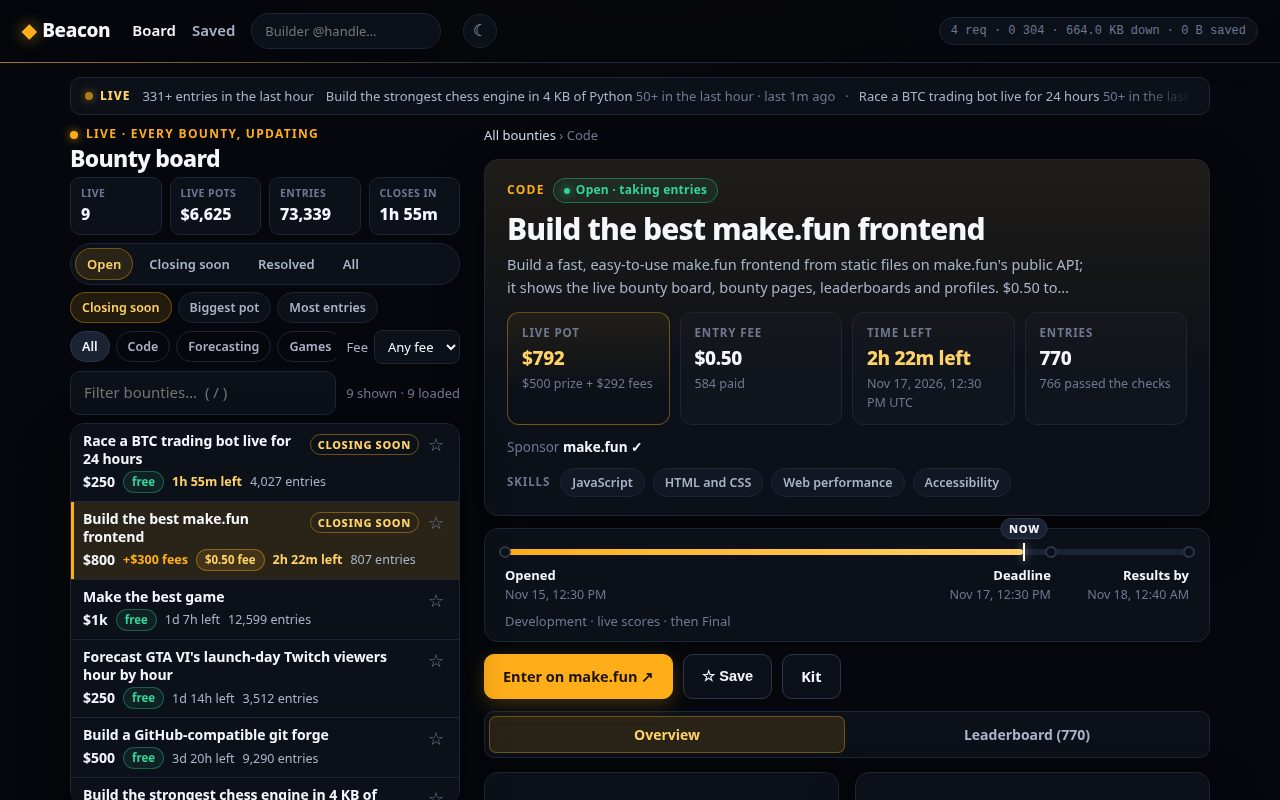
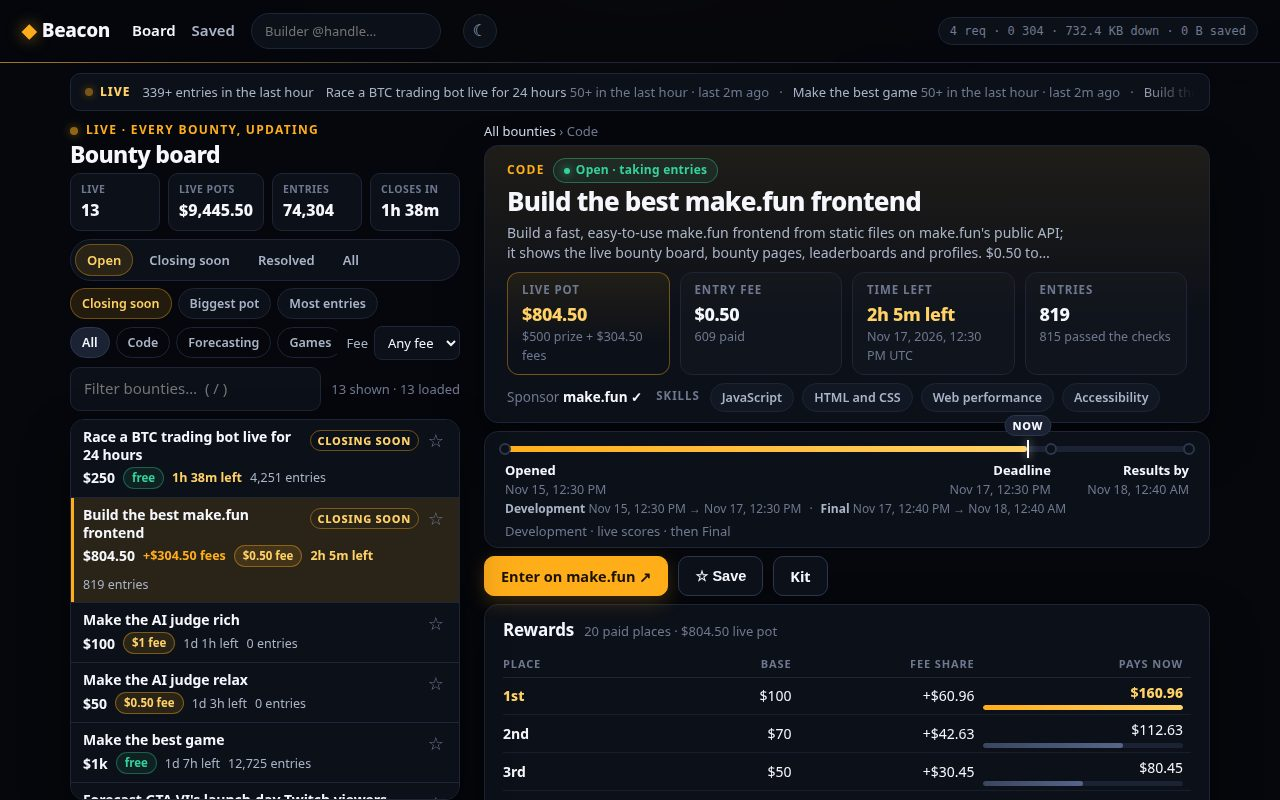
Beacon round 5: rewards table into first screen, exact phase windows, narrow chip wrap
- Rewards table moved above the pane tabs + detail-pane compaction, so the
  table header and rows 1-3 are visible in a 1280x800 viewport; nothing
  removed, timeline stays above the tabs and fully visible
- One quiet line under the timeline bar with the exact Development and Final
  windows from the same API phase data, in the timeline's date format
- At <=720px the category chips wrap on their own row and the Fee filter
  drops to a row below, so no chip is ever cut mid-word; desktop unchanged

diff --git a/app/views.js b/app/views.js
@@ -706,8 +706,8 @@ export function rewardsTableHTML(b) {
   const placeLabel = (g) => (g.start === g.end ? ord(g.start) : `${ord(g.start)}–${ord(g.end)}`);
   return `
     <section class="panel" aria-label="Rewards">
-      <h2>Rewards</h2>
-      <p class="panel-note">${num(rows.length)} paid places · ${money(pot(b))} live pot</p>
+      <div class="panel-head"><h2>Rewards</h2>
+      <p class="panel-note">${num(rows.length)} paid places · ${money(pot(b))} live pot</p></div>
       <table class="rewards">
         <thead><tr><th>Place</th><th class="num">Base</th><th class="num">Fee share</th><th class="num">Pays now</th></tr></thead>
         <tbody>${groups.map((g, i) => `
@@ -742,6 +742,15 @@ export function phasesHTML(b) {
   const pos = (iso) => Math.min(100, Math.max(0, ((new Date(iso).getTime() - start) / span) * 100));
   const nowPos = pos(new Date().toISOString());
   const caption = dev ? `${esc(dev.title)}${dev.scores ? ` · ${esc(dev.scores)} scores` : ''}` : '';
+  // The exact windows, in the same short format as the labels above: the
+  // Development window (opened -> deadline) and the Final window (its own
+  // start -> results-by; the deadline when the phase carries no start).
+  const windows = [];
+  if (dev?.startsAt && dev?.endsAt) windows.push({ title: dev.title || 'Development', from: dev.startsAt, to: dev.endsAt });
+  else windows.push({ title: 'Development', from: opened, to: deadline });
+  if (final?.startsAt && final?.endsAt) windows.push({ title: final.title || 'Final', from: final.startsAt, to: final.endsAt });
+  else if (final?.endsAt) windows.push({ title: final.title || 'Final', from: deadline, to: final.endsAt });
+  const windowsLine = windows.length ? `<p class="ph-windows">${windows.map((w) => `<span><b>${esc(w.title)}</b> ${esc(dateShort(w.from))} → ${esc(dateShort(w.to))}</span>`).join('<span class="ph-wsep" aria-hidden="true">·</span>')}</p>` : '';
   // Label alignment: the first label starts at its dot, the last ends at its
   // dot, and a middle label centers on its dot — unless the next point is so
   // close that the centered label would collide with the next one, in which
@@ -761,6 +770,7 @@ export function phasesHTML(b) {
       <div class="ph-labels">
         ${points.map((p, i) => `<span class="ph-label ${align[i]}" style="left:${pos(p.at).toFixed(1)}%"><b>${esc(p.label)}</b>${dateShort(p.at)}</span>`).join('')}
       </div>
+      ${windowsLine}
       ${caption ? `<p class="ph-caption">${caption}${final ? ` · then ${esc(final.title)}` : ''}</p>` : ''}
     </section>`;
 }
@@ -818,8 +828,7 @@ export function bountyDetailHTML(b) {
         <div class="sc${closing ? ' soon' : ''}"><span class="sc-label">Time left</span><span class="sc-value" data-countdown="${esc(b.deadline)}">${timeLeft(b.deadline)}</span><span class="sc-note">${date(b.deadline)}</span></div>
         <div class="sc"><span class="sc-label">Entries</span><span class="sc-value">${num(b.submissionCount)}</span><span class="sc-note">${entriesNote}</span></div>
       </div>
-      ${b.sponsor?.name ? `<p class="sponsor-line">Sponsor <strong>${esc(b.sponsor.name)}${b.sponsor.isVerified ? ' ✓' : ''}</strong>${b.phase?.title ? ` · ${esc(b.phase.title)}` : ''}</p>` : ''}
-      ${b.skills?.length ? `<div class="skills-row"><span class="sc-label">Skills</span>${b.skills.map((s) => `<span class="chip">${esc(s)}</span>`).join(' ')}</div>` : ''}
+      ${b.sponsor?.name || b.skills?.length ? `<div class="hero-meta">${b.sponsor?.name ? `<p class="sponsor-line">Sponsor <strong>${esc(b.sponsor.name)}${b.sponsor.isVerified ? ' ✓' : ''}</strong>${b.phase?.title ? ` · ${esc(b.phase.title)}` : ''}</p>` : ''}${b.skills?.length ? `<div class="skills-row"><span class="sc-label">Skills</span>${b.skills.map((s) => `<span class="chip">${esc(s)}</span>`).join(' ')}</div>` : ''}</div>` : ''}
     </div>
     ${phasesHTML(b)}
     <div class="actions">
@@ -827,13 +836,13 @@ export function bountyDetailHTML(b) {
       ${starButtonHTML(b.slug, true)}
       ${kit ? `<a class="btn ghost" href="${esc(kit)}" target="_blank" rel="noopener">Kit</a>` : ''}
     </div>
+    ${rewardsTableHTML(b)}
     <div class="detail-tabs" role="tablist" aria-label="Bounty detail">
       <button role="tab" data-ptab="overview" aria-selected="true">Overview</button>
       <button role="tab" data-ptab="leaderboard" aria-selected="false">Leaderboard (${num(b.submissionCount)})</button>
     </div>
     <div id="pane-overview">
       <div class="detail-grid">
-        ${rewardsTableHTML(b)}
         <div id="lb-preview"></div>
       </div>
       <h2>About this bounty</h2>

diff --git a/app/style.css b/app/style.css
@@ -161,7 +161,7 @@ main {
 }
 
 /* The split view is dense by design: less air above it. */
-main:has(.split2) { padding-top: 14px; }
+main:has(.split2) { padding-top: 10px; }
 
 footer {
   border-top: 1px solid var(--line); padding: 22px 20px 30px;
@@ -721,6 +721,14 @@ table.rewards { width: 100%; border-collapse: collapse; font-variant-numeric: ta
 .ph-label b { display: block; color: var(--text); font-size: 13px; }
 .ph-caption { margin: 6px 0 0; color: var(--faint); font-size: 13px; }
 
+/* The exact phase windows, one quiet line under the timeline labels. */
+.ph-windows {
+  display: flex; gap: 8px; flex-wrap: wrap; align-items: baseline;
+  margin: 8px 0 0; color: var(--faint); font-size: 12px; font-variant-numeric: tabular-nums;
+}
+.ph-windows b { color: var(--dim); font-weight: 700; }
+.ph-wsep { color: var(--faint); }
+
 .preview { list-style: none; padding: 0; margin: 0; }
 .preview li { display: flex; gap: 10px; align-items: center; padding: 8px 0; border-bottom: 1px solid rgba(29, 37, 54, 0.7); }
 .preview li:last-child { border-bottom: 0; }
@@ -750,6 +758,11 @@ table.rewards { width: 100%; border-collapse: collapse; font-variant-numeric: ta
 @media (max-width: 720px) {
   .detail-grid { grid-template-columns: minmax(0, 1fr); }
   .stat-strip { grid-template-columns: 1fr 1fr; }
+  /* Narrow: the category chips get a row of their own and wrap, and the Fee
+     filter drops to a row below — no chip is ever cut mid-word by the
+     filter, and nothing scrolls sideways. Desktop is untouched. */
+  .chip-row { flex-wrap: wrap; }
+  .chip-row .chips { flex: 1 1 100%; flex-wrap: wrap; overflow: visible; }
 }
 
 /* ---- detail pane tabs: Overview / Leaderboard ---- */
@@ -776,20 +789,41 @@ table.rewards { width: 100%; border-collapse: collapse; font-variant-numeric: ta
 
 /* ---- detail pane compaction: the rewards table and preview peek into the first screen ---- */
 
-.pane-detail .hero-block { padding: 18px 22px 16px; }
-.pane-detail h1.hero { font-size: 30px; }
-.pane-detail .lede { font-size: 14.5px; line-height: 1.55; }
+.pane-detail .crumbs { margin-bottom: 4px; }
+.pane-detail .hero-block { padding: 12px 22px 8px; }
+.pane-detail h1.hero { font-size: 26px; }
+.pane-detail .hero-block .eyebrow { margin-bottom: 4px; }
+.pane-detail .lede { font-size: 14px; line-height: 1.45; }
 /* The summary is capped at two lines here; the full text sits below in About. */
 .pane-detail .hero-block .lede {
   display: -webkit-box; -webkit-line-clamp: 2; -webkit-box-orient: vertical; overflow: hidden;
 }
-.pane-detail .stat-cards { margin: 14px 0 4px; gap: 10px; }
-.pane-detail .sc { padding: 11px 14px; }
-.pane-detail .sc-value { font-size: 19px; }
-.pane-detail .sponsor-line { margin: 12px 0 0; }
-.pane-detail .skills-row { margin: 10px 0 2px; }
-.pane-detail .phases { padding: 20px 20px 10px; margin: 12px 0 2px; }
-.pane-detail .ph-labels { height: 40px; }
-.pane-detail .actions { margin: 12px 0; }
+.pane-detail .stat-cards { margin: 8px 0 4px; gap: 10px; }
+.pane-detail .sc { padding: 8px 14px; }
+.pane-detail .sc-value { font-size: 18px; }
+.pane-detail .sc-label { margin-bottom: 4px; }
+.pane-detail .sc-note { margin-top: 2px; }
+/* Sponsor and skills share one row in the pane: same content, one line. */
+.pane-detail .hero-meta { display: flex; gap: 14px; flex-wrap: wrap; align-items: center; margin: 8px 0 2px; }
+.pane-detail .hero-meta .sponsor-line { margin: 0; white-space: nowrap; }
+.pane-detail .hero-meta .skills-row { margin: 0; }
+.pane-detail .phases { padding: 14px 20px 6px; margin: 8px 0 2px; }
+.pane-detail .ph-labels { height: 36px; margin-top: 8px; }
+.pane-detail .ph-windows { margin-top: 4px; }
+.pane-detail .ph-caption { margin-top: 2px; }
+.pane-detail .actions { margin: 8px 0; }
+.pane-detail .actions .btn { padding: 8px 16px; }
 .pane-detail h2 { margin-top: 24px; }
+.pane-detail .detail-tabs { margin: 12px 0 14px; }
+.pane-detail .panel { padding: 12px 18px; }
+/* The rewards heading and its note share one row, so the table starts higher. */
+.panel-head { display: flex; align-items: baseline; gap: 10px; flex-wrap: wrap; margin: 0 0 8px; }
+.panel-head h2 { margin: 0; }
+.panel-head .panel-note { margin: 0; }
+/* The rewards table itself is tightened in the pane: same rows, less air. */
+.pane-detail .rewards th { padding: 3px 8px 5px 0; }
+.pane-detail .rewards td { padding: 4px 8px 4px 0; }
+.pane-detail .rw-bar { margin-top: 2px; }
+/* The preview now stands alone in the overview grid: full width. */
+.detail-grid > :only-child { grid-column: 1 / -1; }
 .ss-value { white-space: nowrap; }
